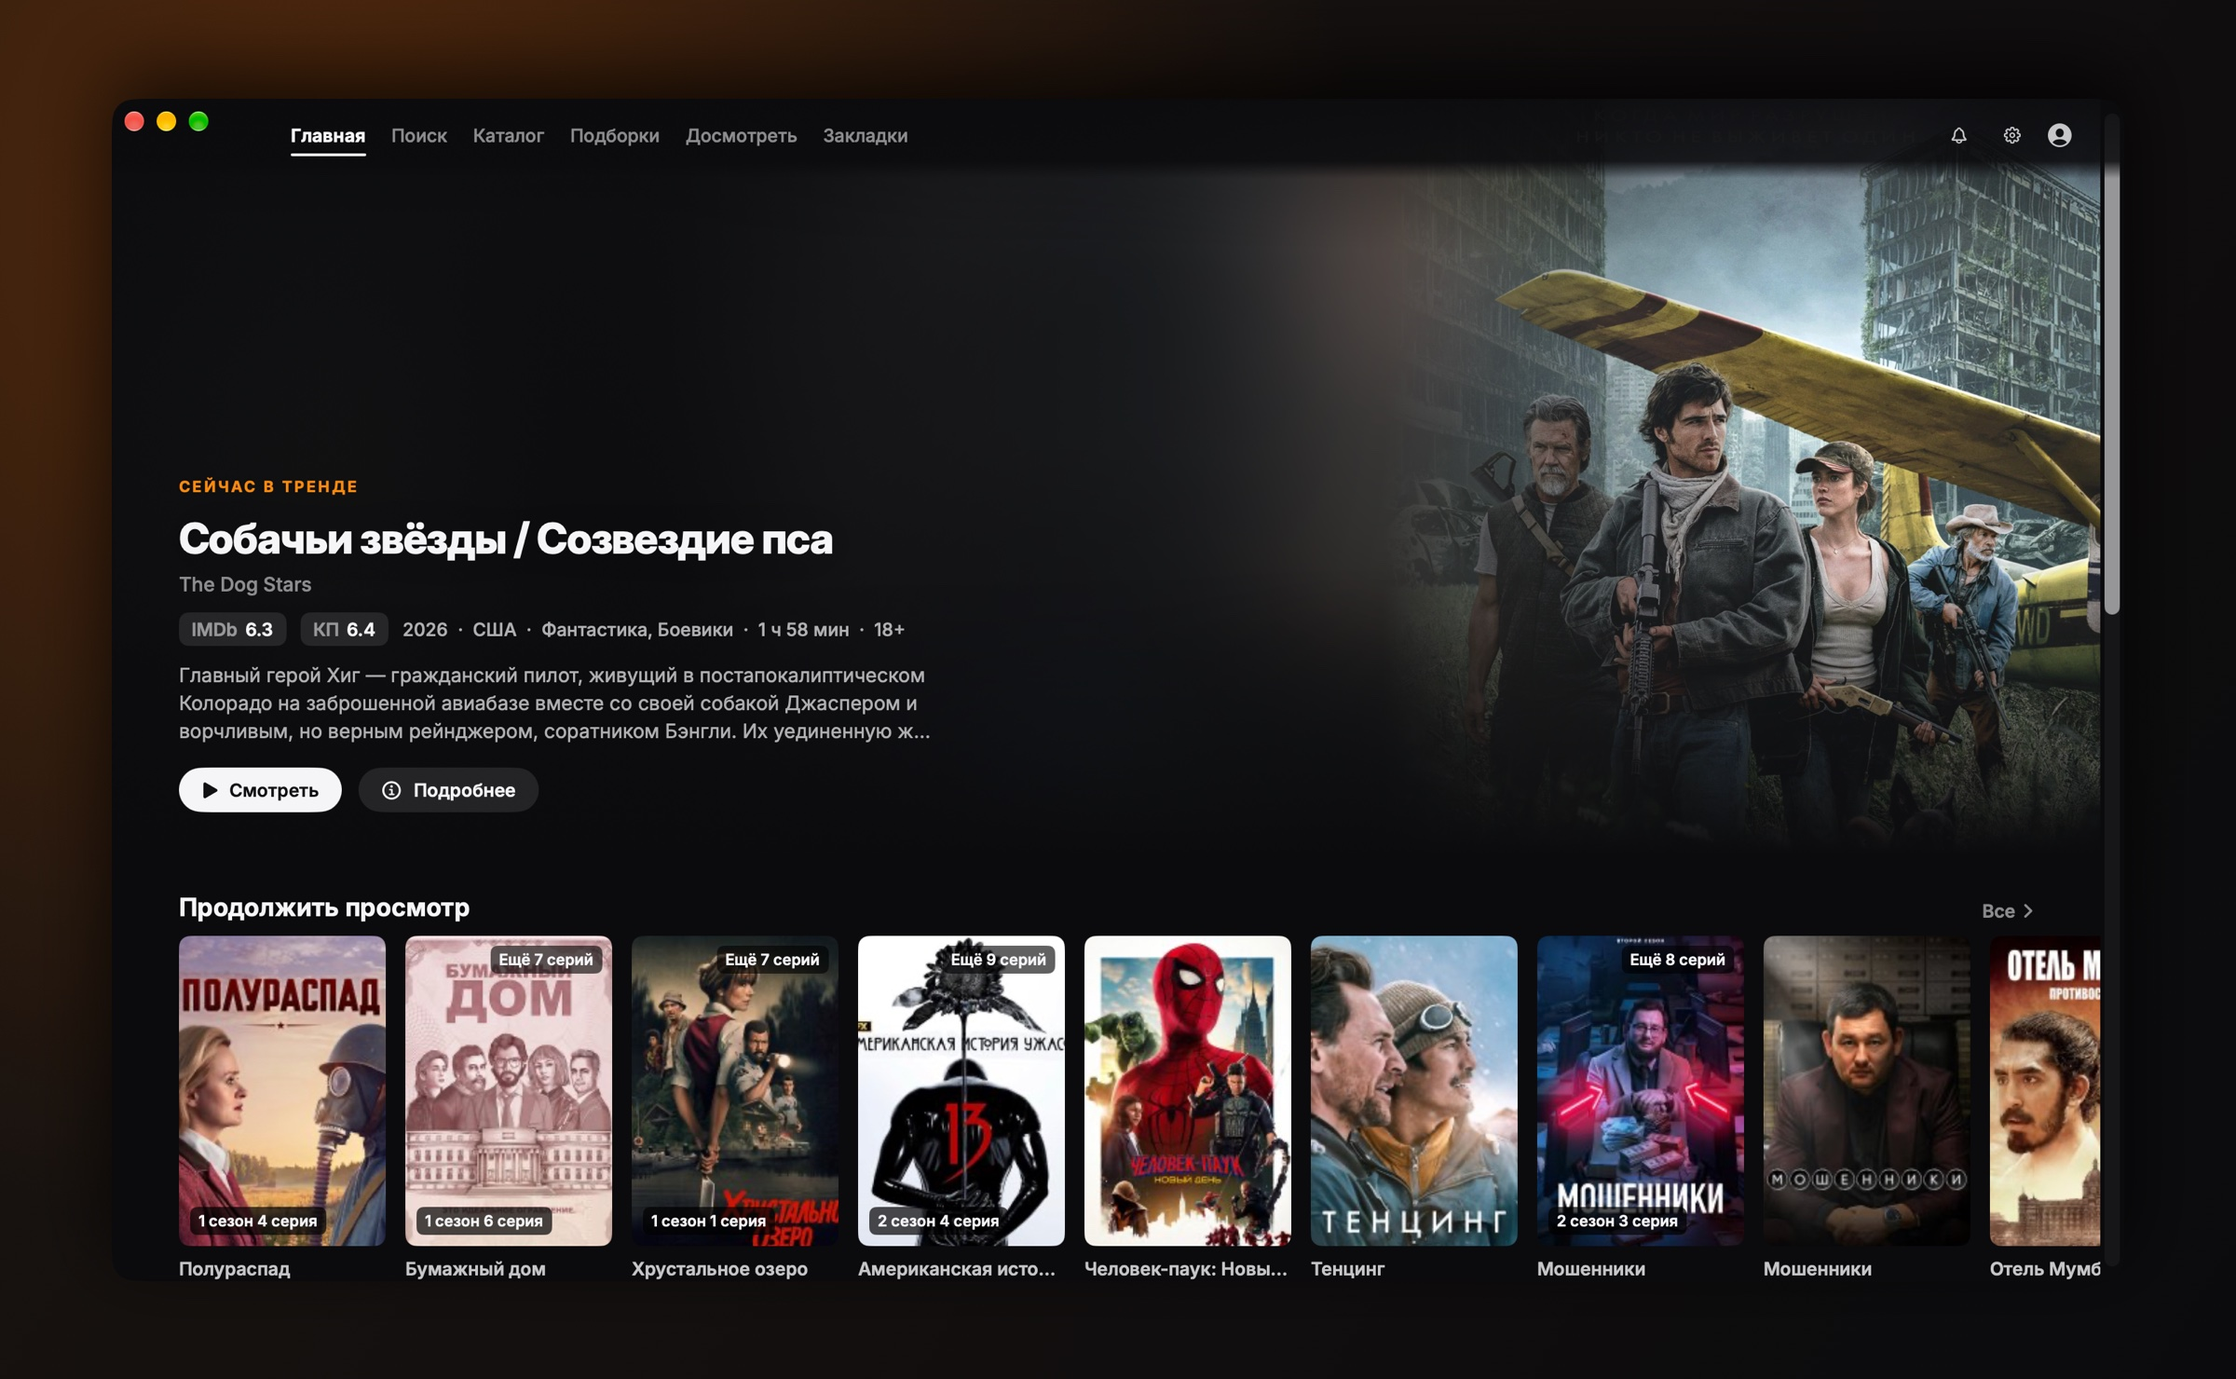
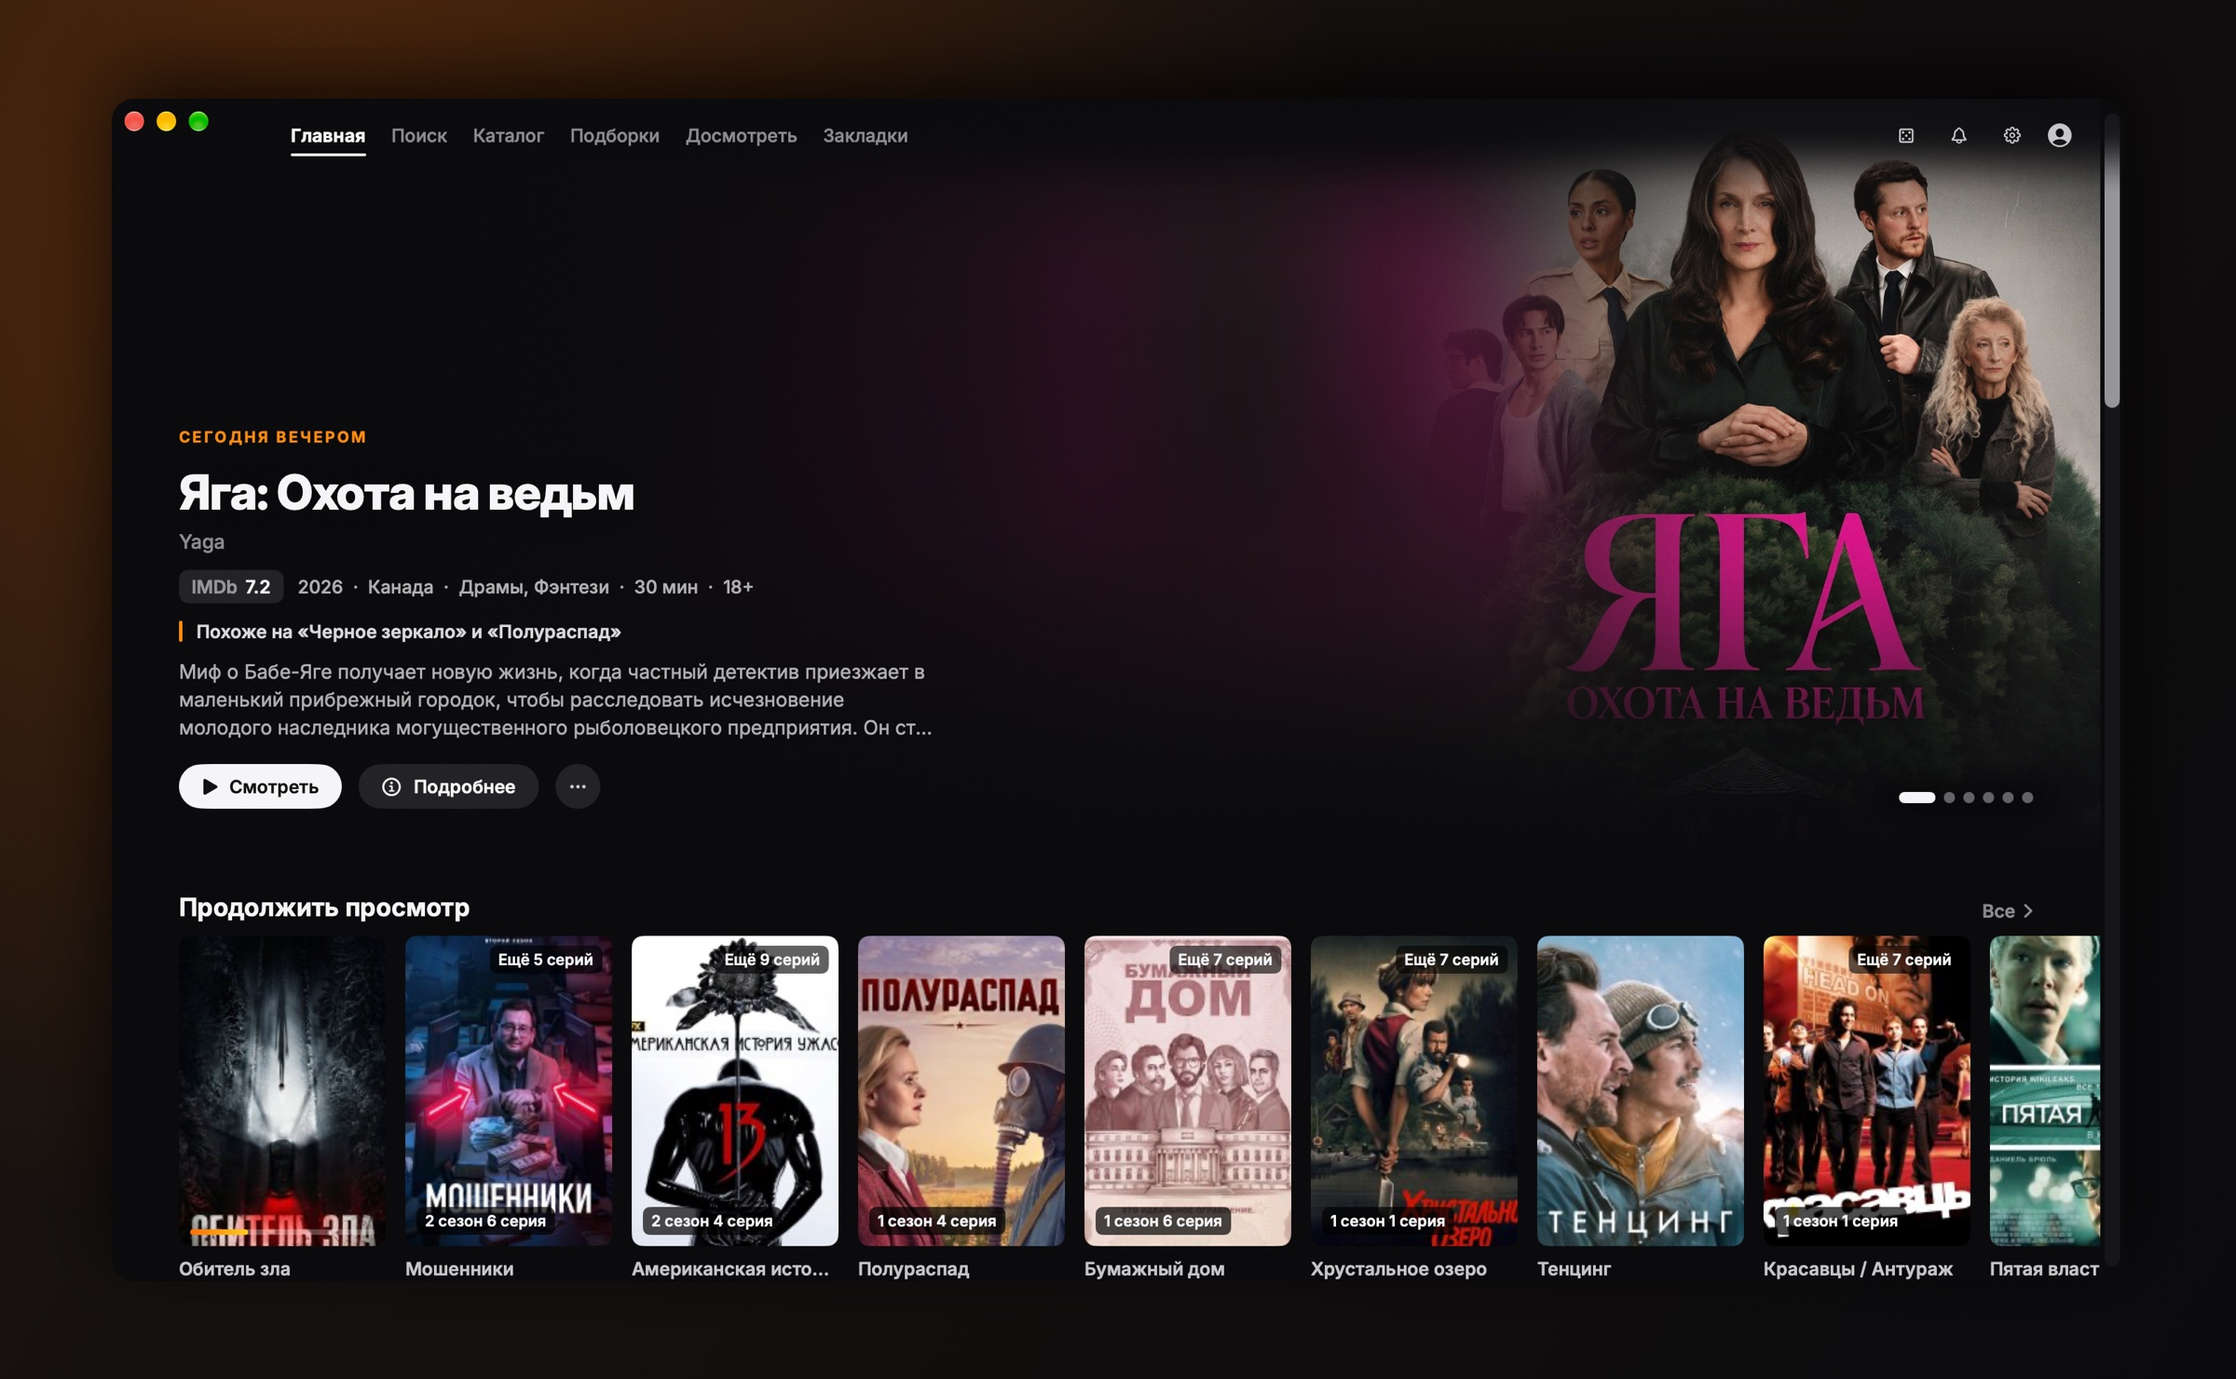
README: скриншоты рекомендаций — «Сегодня вечером», личные ряды, «Выбери за меня», «Уточнить вкус», оценки критиков и «Вам подойдёт?»; KP_SCROLL для кадров ниже первого экрана

diff --git a/scripts/readme/make-media.swift b/scripts/readme/make-media.swift
@@ -9,8 +9,10 @@
 // Usage (from anywhere): DEVELOPER_DIR=/Applications/Xcode.app/Contents/Developer swift scripts/readme/make-media.swift [captures]
 //
 // The captures folder holds window shots without a shadow (`screencapture -o -l<window id>`) of a Debug build run with
-// KP_DEMO=1 (screenshot mode, see KPDemo.swift): home.png, title.png, pause.png and player.png. They stay out of the
-// repository; only the framed JPEGs are committed.
+// KP_DEMO=1 (screenshot mode, see KPDemo.swift): home.png, title.png, pause.png, player.png, and for the
+// recommendations rows.png (KP_SCROLL), pick.png (KP_PICK), taste.png and deck.png (KP_TASTE, KP_TASTE=stack) and
+// fit.png (KP_OPEN, KP_SCROLL). A sheet is a window of its own: those three are the main window's place on screen
+// (`screencapture -R`) with the app in front. They stay out of the repository; only the framed JPEGs are committed.
 
 import AppKit
 import CoreImage.CIFilterBuiltins
@@ -182,10 +184,14 @@ if let match = appLinks.firstMatch(of: #/cryptoUSDT = "([^"]+)"/#) {
 }
 
 // The screenshots: each capture centred on a 2400×1480 board in the app's black, a soft shadow under the window and
-// the sun's warm glow from the top left, as on the social preview. JPEG, so four of them stay under a few megabytes.
+// the sun's warm glow from the top left, as on the social preview. JPEG, so they stay under a megabyte each.
 if CommandLine.arguments.count > 1 {
     let captures = URL(fileURLWithPath: CommandLine.arguments[1])
-    let shots = ["home": "screen-home.jpg", "title": "screen-title.jpg", "pause": "screen-pause.jpg", "player": "screen-player.jpg"]
+    let shots = [
+        "home": "screen-home.jpg", "title": "screen-title.jpg", "pause": "screen-pause.jpg", "player": "screen-player.jpg",
+        "rows": "screen-rows.jpg", "pick": "screen-pick.jpg", "taste": "screen-taste.jpg", "deck": "screen-deck.jpg",
+        "fit": "screen-fit.jpg",
+    ]
 
     for (source, name) in shots.sorted(by: { $0.key < $1.key }) {
         guard let image = NSImage(contentsOf: captures.appending(path: "\(source).png")),
@@ -211,8 +217,19 @@ if CommandLine.arguments.count > 1 {
             let size = CGSize(width: CGFloat(window.width) * fit, height: CGFloat(window.height) * fit)
             let frame = CGRect(x: ((width - size.width) / 2).rounded(), y: ((height - size.height) / 2).rounded(), width: size.width, height: size.height)
 
+            // Rounded like the window: a capture of its place on screen (a sheet over it) leaves no desktop in the corners.
+            let corner = 32 * fit
+            let rounded = CGPath(roundedRect: frame, cornerWidth: corner, cornerHeight: corner, transform: nil)
             ctx.saveGState()
             ctx.setShadow(offset: CGSize(width: 0, height: 28), blur: 90, color: CGColor(gray: 0, alpha: 0.75))
+            ctx.addPath(rounded)
+            ctx.setFillColor(bg)
+            ctx.fillPath()
+            ctx.restoreGState()
+
+            ctx.saveGState()
+            ctx.addPath(rounded)
+            ctx.clip()
             // The context is flipped for text; an image drawn as is would come out upside down.
             ctx.translateBy(x: frame.minX, y: frame.maxY)
             ctx.scaleBy(x: 1, y: -1)

diff --git a/VideoLib/Presentations/Theme/KPDemo.swift b/VideoLib/Presentations/Theme/KPDemo.swift
@@ -1,4 +1,4 @@
-import Foundation
+import AppKit
 
 /// Screenshot mode for README images (Debug builds, `KP_DEMO=1`): posters are slightly enlarged and the account's own
 /// details (premium days, the size of the history, voice-overs in the «Продолжить просмотр» captions) stay out of the
@@ -22,4 +22,28 @@ enum KPDemo {
     static func hides(_ name: String) -> Bool {
         hiddenWords.contains { name.localizedCaseInsensitiveContains($0) }
     }
+
+    #if DEBUG
+    /// `KP_SCROLL=<points>`: a few seconds after launch (`KP_SCROLL_AFTER`, 8 by default) the window's page scrolls
+    /// down this far, for shots of what's below the fold.
+    @MainActor
+    static func scrollIfAsked() {
+        let environment = ProcessInfo.processInfo.environment
+        guard isOn, let offset = environment["KP_SCROLL"].flatMap(Double.init) else { return }
+        let delay = environment["KP_SCROLL_AFTER"].flatMap(Double.init) ?? 8
+        Task { @MainActor in
+            try? await Task.sleep(for: .seconds(delay))
+            guard let content = NSApp.windows.first(where: { $0.isVisible && $0.frame.width > 800 })?.contentView else { return }
+            // The page's own scroll view is the tallest one (rows scroll sideways in short ones).
+            guard let scrollView = scrollViews(in: content).max(by: { $0.frame.height < $1.frame.height }) else { return }
+            scrollView.contentView.scroll(to: NSPoint(x: 0, y: offset))
+            scrollView.reflectScrolledClipView(scrollView.contentView)
+        }
+    }
+
+    @MainActor
+    private static func scrollViews(in view: NSView) -> [NSScrollView] {
+        ((view as? NSScrollView).map { [$0] } ?? []) + view.subviews.flatMap { scrollViews(in: $0) }
+    }
+    #endif
 }

diff --git a/VideoLib/VideoLibApp.swift b/VideoLib/VideoLibApp.swift
@@ -30,6 +30,10 @@ class AppDelegate: NSObject, NSApplicationDelegate {
 
         NSWindow.allowsAutomaticWindowTabbing = false
 
+        #if DEBUG
+            KPDemo.scrollIfAsked()
+        #endif
+
         // Quit requests from outside (Sparkle's installer before it swaps the app, the Dock's «Завершить») go through
         // the same door as ⌘Q, so an open sheet doesn't make the app refuse.
         NSAppleEventManager.shared().setEventHandler(

diff --git a/README.md b/README.md
@@ -29,7 +29,7 @@
 <br>
 
 <p align="center">
-  <img src="docs/media/screen-home.jpg" width="100%" alt="Главная КиноПохуй: большая заставка с фильмом из трендов и ряд «Продолжить просмотр» с постерами и номерами серий">
+  <img src="docs/media/screen-home.jpg" width="100%" alt="Главная КиноПохуй: заставка «Сегодня вечером» с подобранным сериалом «Яга: Охота на ведьм» и причиной «Похоже на «Черное зеркало» и «Полураспад»», ниже ряд «Продолжить просмотр» с постерами и номерами серий">
 </p>
 
 ## Что это
@@ -43,6 +43,27 @@
 - **Ни телеметрии, ни трекеров.** Открытый код. Приложение можно собрать самому одной командой.
 
 ## Как это выглядит
+
+<p align="center">
+  <img src="docs/media/screen-rows.jpg" width="100%" alt="Личные ряды на главной: «Для вас» с подписями под постерами вроде «Похоже на «Из машины»» и «Ваше: драма · США», ниже «Потому что вы обожаете «1917»» и «Потому что вы обожаете «Из машины»»">
+  <br><sub><b>Личные ряды</b> <sup>с версии 2.1</sup>. «Для вас» и «Потому что вы обожаете «…»»: под каждым постером написано, почему он здесь.</sub>
+</p>
+
+<p align="center">
+  <img src="docs/media/screen-pick.jpg" width="100%" alt="Окно «Выбери за меня»: поле «Например: лёгкое на полтора часа, смотрим вдвоём», понятое условие «до 90 мин», готовый вариант с причиной и кнопкой «Смотреть», два варианта «Или» и кнопки «Полегче», «Помрачнее», «Покороче», «Поновее»">
+  <br><sub><b>«Выбери за меня»</b> (<kbd>⌘</kbd> <kbd>J</kbd>) <sup>с версии 2.1</sup>. Готовый вариант сразу, ещё два «Или», а пожелания можно сказать словами.</sub>
+</p>
+
+<p align="center">
+  <img src="docs/media/screen-taste.jpg" width="49%" alt="«Уточнить вкус», шаг «Что вам близко?»: жанры и страны пузырями, отмеченные галочкой — то, что приложение поняло по просмотрам">
+  <img src="docs/media/screen-deck.jpg" width="49%" alt="«Уточнить вкус», оценка своих тайтлов: постер «Метод», кнопки «Не моё», «Нравится», «Обожаю» с клавишами 1, 2, 3, шкала «Вкус изучен на 94 %» и ряд «Сейчас мы бы посоветовали»">
+  <br><sub><b>«Уточнить вкус»</b> <sup>с версии 2.1</sup>. Что вам близко, потом свои же тайтлы одной клавишей. Внизу видно, как от каждого ответа меняются советы.</sub>
+</p>
+
+<p align="center">
+  <img src="docs/media/screen-fit.jpg" width="100%" alt="Страница фильма «Прибытие», блок «О фильме»: «Ваша оценка» с кнопками «Не моё», «Нравится», «Обожаю», строка «Вам подойдёт?» с ответом «Скорее зайдёт: фантастика — в вашем вкусе, Дени Вильнёв: вы смотрели 2 работы» и оценки IMDb, Кинопоиска, Rotten Tomatoes и Metacritic">
+  <br><sub><b>Оценки и «Вам подойдёт?»</b> <sup>с версии 2.1</sup>. Rotten Tomatoes и Metacritic рядом с IMDb и Кинопоиском, ответ своими словами и ваша оценка в один клик.</sub>
+</p>
 
 <p align="center">
   <img src="docs/media/screen-title.jpg" width="100%" alt="Страница сериала «Сёгун»: обложка, рейтинги, описание, кнопка «Смотреть», выбор озвучки с долей зрителей и серии плитками">
@@ -111,6 +132,7 @@
 - У каждого совета причина и «Почему это?» с кнопками «Меньше такого» и «Не учитывать».
 - «Не моё», «Нравится», «Обожаю» на странице и правым кликом по постеру. Оценённый фильм считается просмотренным: уходит из «Продолжить просмотр» и отмечается на сайте.
 - «Уточнить вкус» за минуту: что вам близко, пара своих тайтлов, «Что хочется посмотреть?». Советы меняются на глазах.
+- «Вам подойдёт?» на странице тайтла: «Скорее зайдёт», «50 на 50» или «Скорее нет», и почему.
 - Импорт оценок из IMDb и Letterboxd (CSV).
 
 </td>
@@ -289,6 +311,6 @@ cd kinopohuy-macos
 
 ## English
 
-**KinoPohuy** is a native macOS client (SwiftUI) for a Russian-language online cinema: a streaming-style catalog, on-device recommendations that explain themselves (site links, plot similarity via macOS's built-in language model, taste-alike viewers, critics' scores from Wikidata; a «pick for me» that understands plain Russian; coming in 2.1), its own player with a Netflix-like pause screen, picture-in-picture and AirPlay, offline downloads via aria2, Sparkle auto-updates and no telemetry. It is unofficial and hosts or distributes nothing: you enter the site address yourself. The interface is in Russian.
+**KinoPohuy** is a native macOS client (SwiftUI) for a Russian-language online cinema: a streaming-style catalog, on-device recommendations that explain themselves (site links, plot similarity via macOS's built-in language model, taste-alike viewers, critics' scores from Wikidata; a «pick for me» that understands plain Russian; since 2.1), its own player with a Netflix-like pause screen, picture-in-picture and AirPlay, offline downloads via aria2, Sparkle auto-updates and no telemetry. It is unofficial and hosts or distributes nothing: you enter the site address yourself. The interface is in Russian.
 
 macOS 15+, Apple Silicon and Intel. [Download the DMG](https://github.com/SashaEee/kinopohuy-macos/releases/latest/download/KinoPohuy.dmg). The app isn't notarized, so on first launch open System Settings → Privacy & Security → **Open Anyway**. Support the project on [Boosty](https://boosty.to/sanchella_zzz) or with USDT on TON (address above). MIT-licensed, based on open-source code by voidboost (MIT, © 2025 voidboost).
